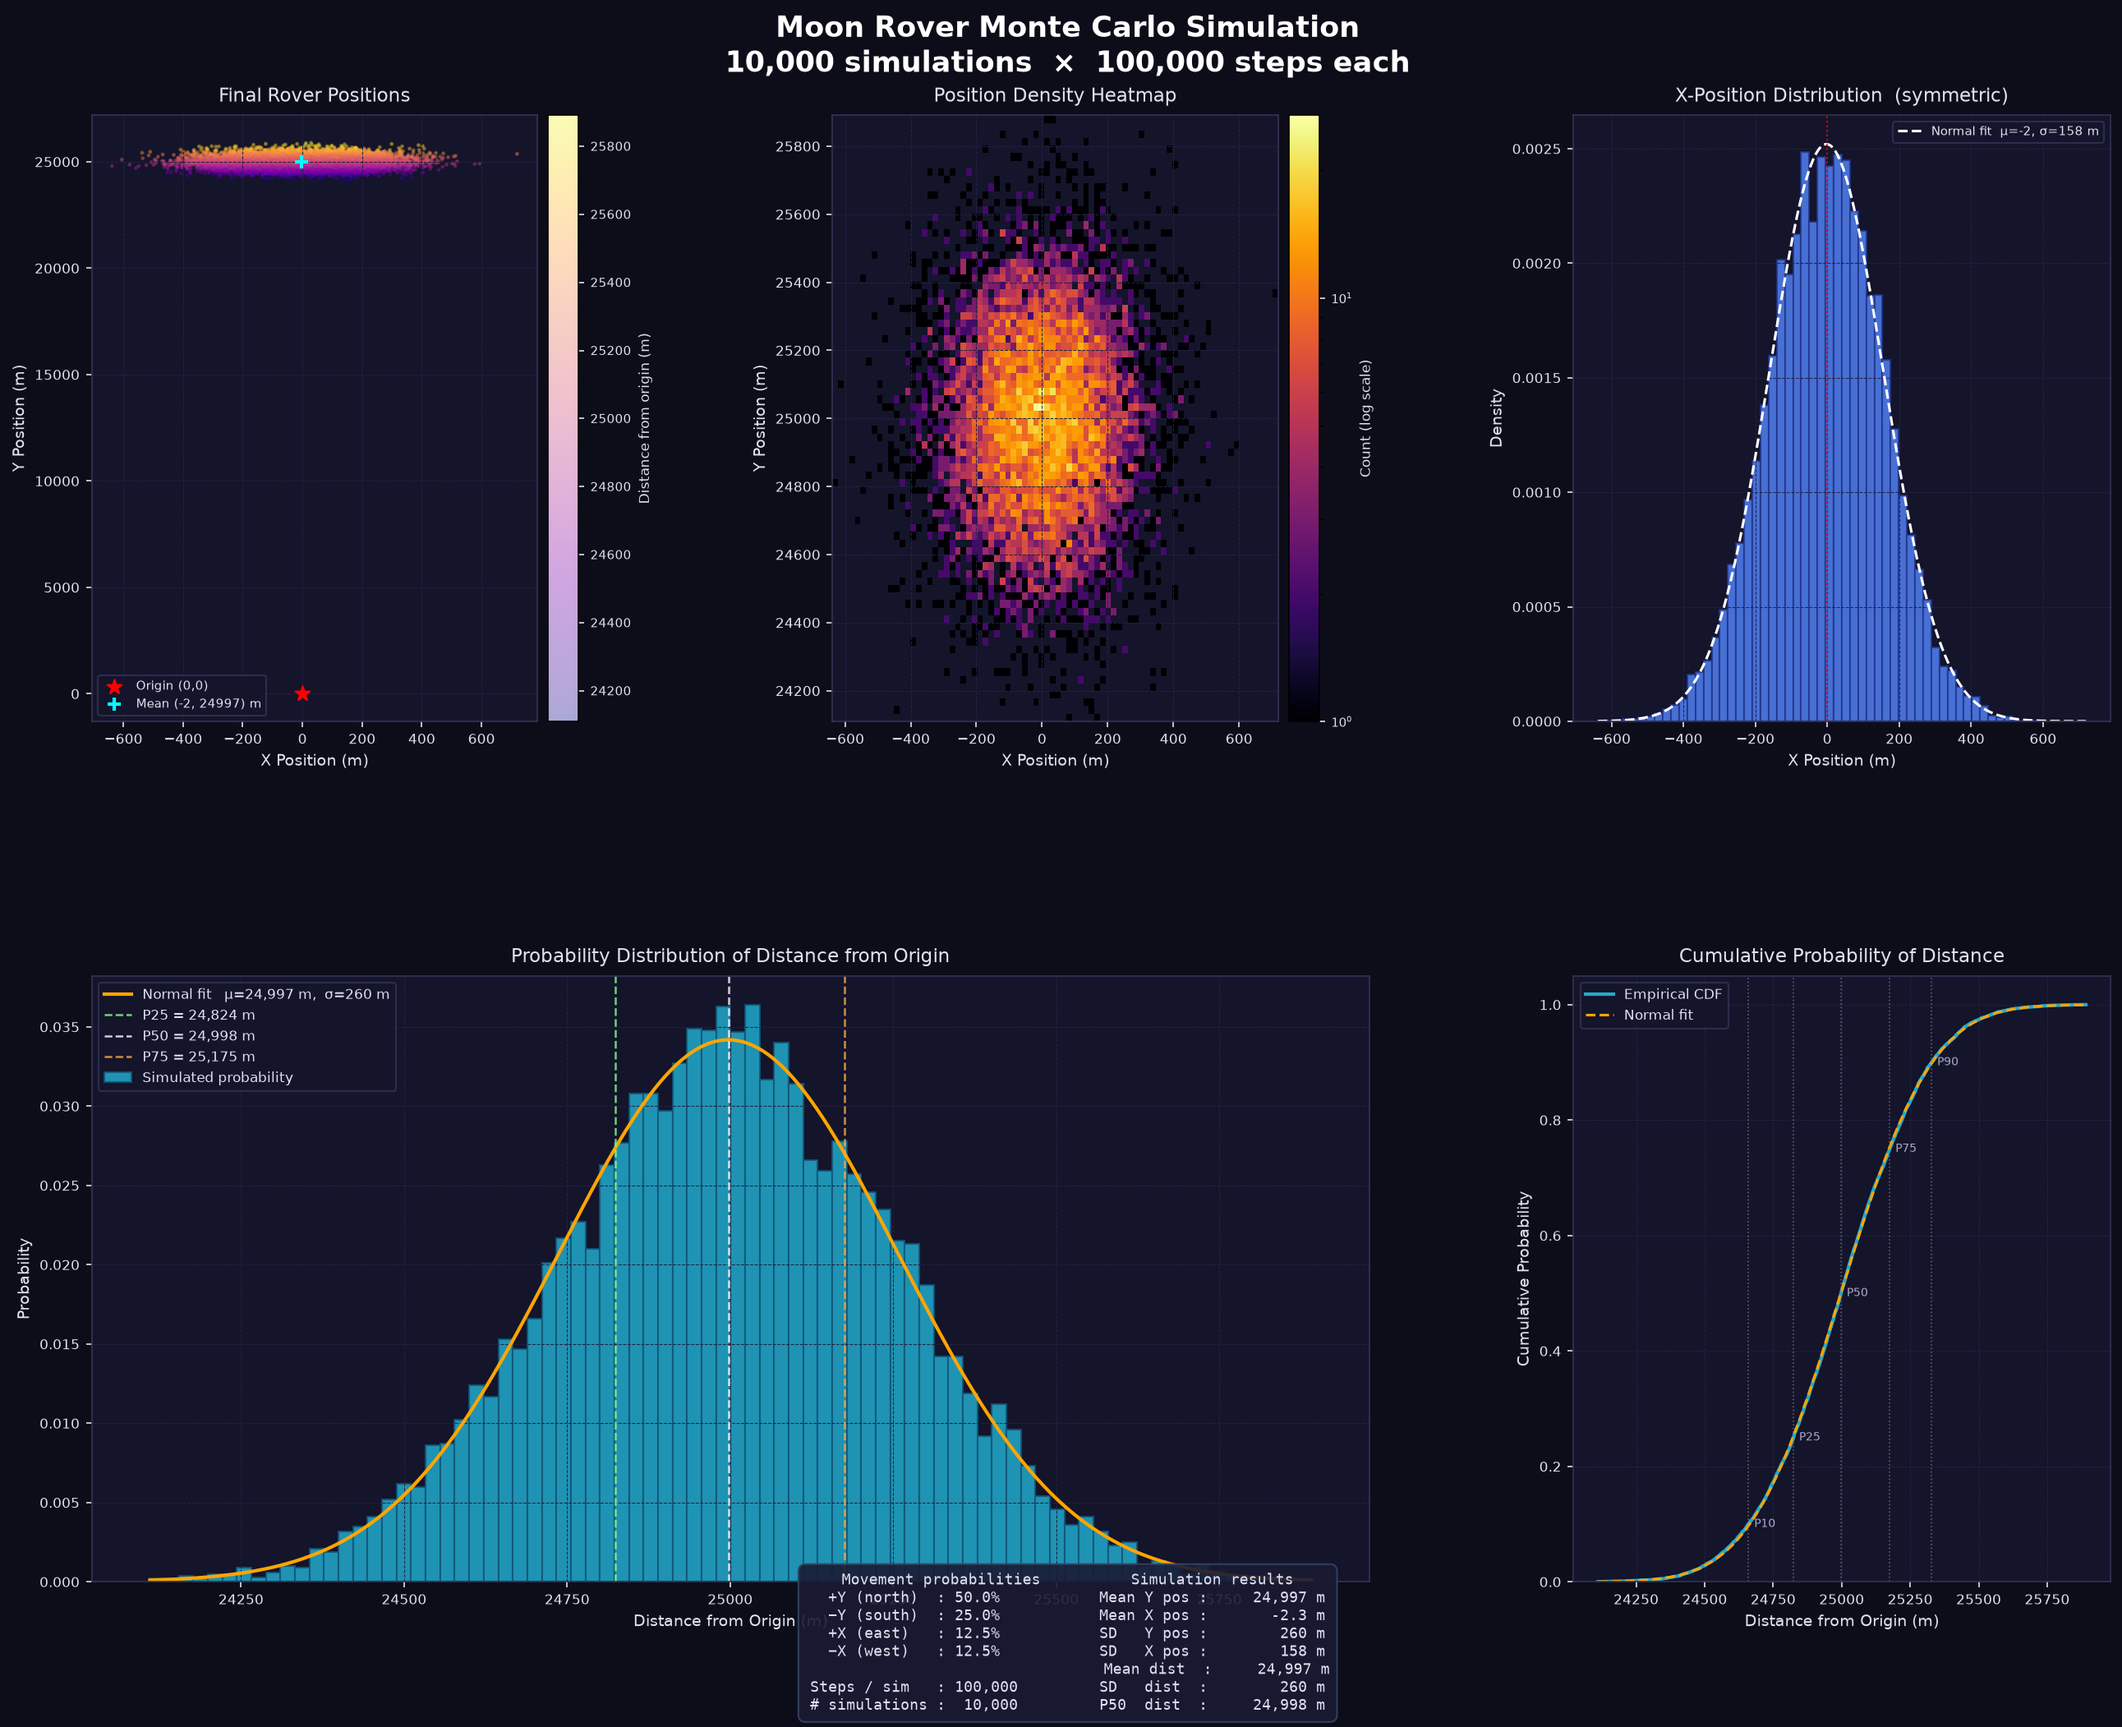
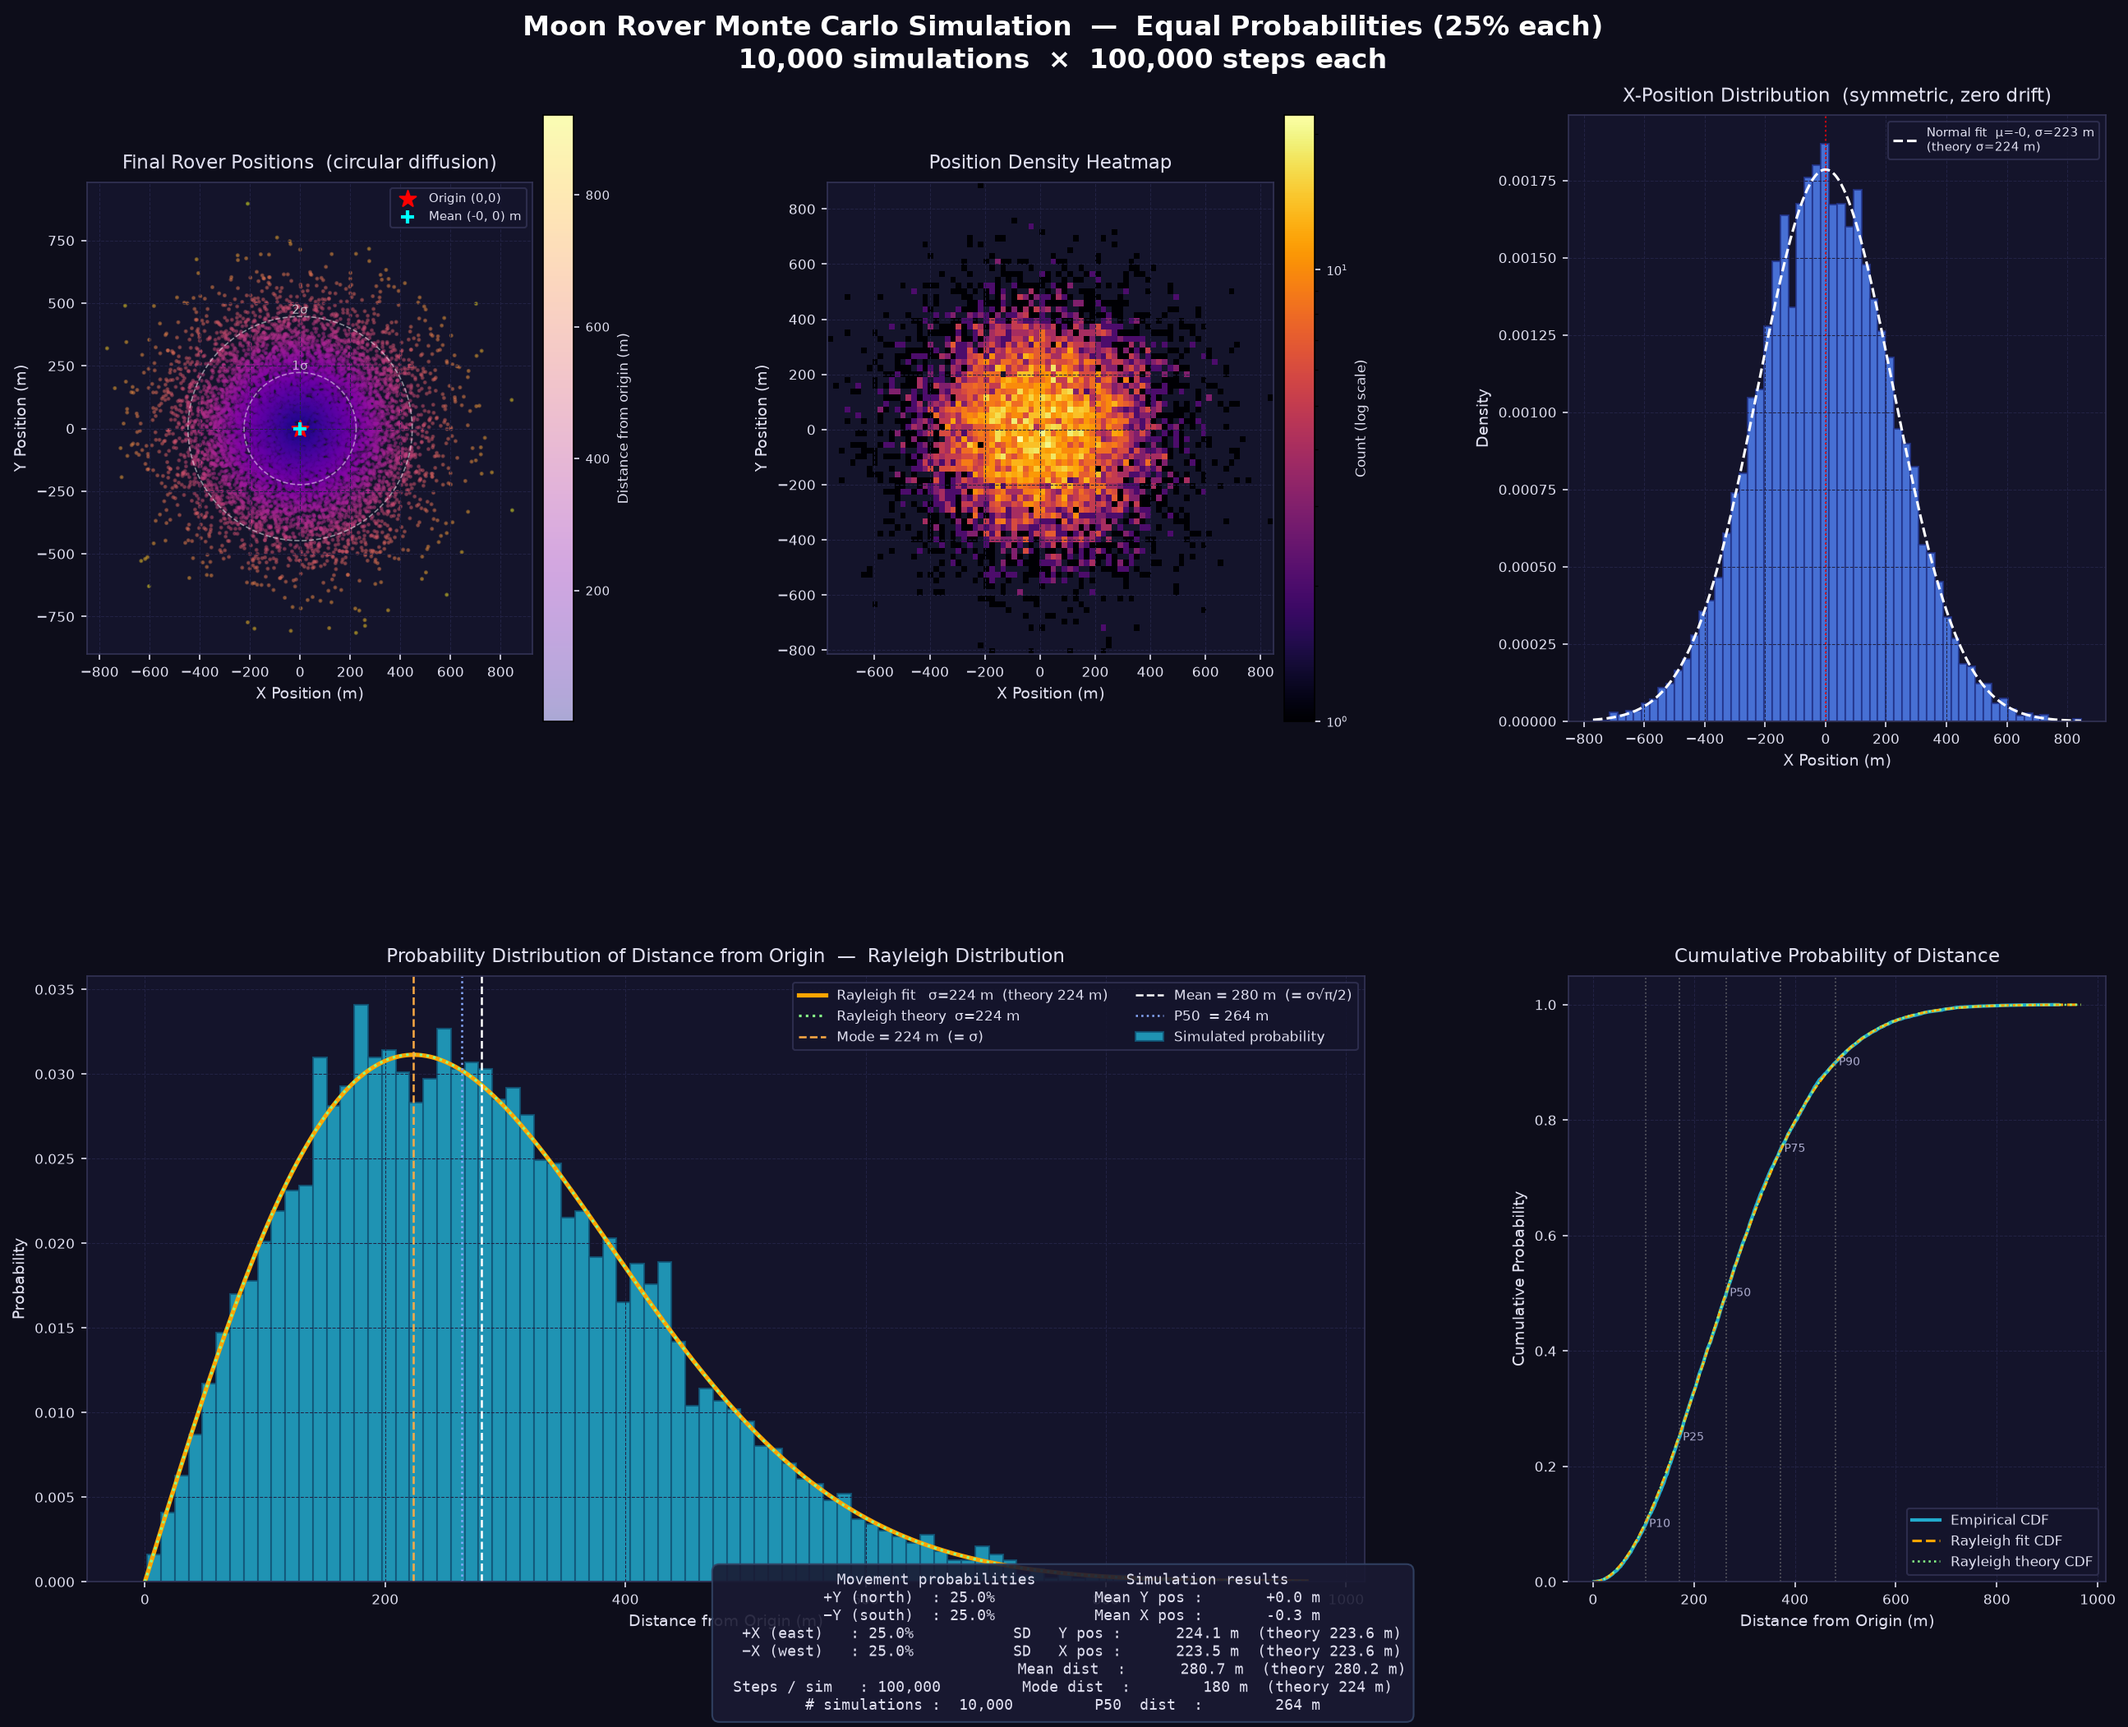
Update simulation to equal movement probabilities (25% each)
Removes the directional bias; rover now performs a symmetric 2-D
random walk. Updates distance distribution fit from Normal to Rayleigh,
adds 1σ/2σ reference circles on the scatter plot, and includes
theoretical Rayleigh curves alongside the fitted ones for comparison.

Claude-Session: https://claude.ai/code/session_018KwBvYQk7MAQ6HHa6mDAib

diff --git a/moon_rover_sim.py b/moon_rover_sim.py
@@ -2,10 +2,10 @@
 Moon Rover Monte Carlo Simulation
 ----------------------------------
 Movement rules (discrete 1-meter steps, one axis at a time):
-  +y : 50.0%
+  +y : 25.0%
   -y : 25.0%
-  +x : 12.5%
-  -x : 12.5%
+  +x : 25.0%
+  -x : 25.0%
 
 10,000 simulations × 100,000 steps each.
 """
@@ -38,14 +38,12 @@ def run_monte_carlo(n_sims: int = 10_000, n_steps: int = 100_000,
         # Random floats in [0, 1) — float32 halves memory vs float64
         r = rng.random((n, n_steps), dtype=np.float32)
 
-        # Thresholds: +y < 0.50 | -y < 0.75 | +x < 0.875 | -x else
-        # Y displacement per step
-        dy = np.where(r < 0.50, np.int8(1),
-             np.where(r < 0.75, np.int8(-1), np.int8(0)))
+        # Equal 25% thresholds: +y < 0.25 | -y < 0.50 | +x < 0.75 | -x else
+        dy = np.where(r < 0.25, np.int8(1),
+             np.where(r < 0.50, np.int8(-1), np.int8(0)))
 
-        # X displacement per step
-        dx = np.where(r >= 0.875, np.int8(-1),
-             np.where(r >= 0.750, np.int8(1),  np.int8(0)))
+        dx = np.where(r >= 0.75, np.int8(-1),
+             np.where(r >= 0.50, np.int8(1),  np.int8(0)))
 
         final_x[start:start + n] = dx.sum(axis=1)
         final_y[start:start + n] = dy.sum(axis=1)
@@ -60,12 +58,20 @@ def run_monte_carlo(n_sims: int = 10_000, n_steps: int = 100_000,
 
 
 print("=" * 60)
-print("  Moon Rover Monte Carlo Simulation")
+print("  Moon Rover Monte Carlo Simulation  (equal probabilities)")
 print("  10,000 sims × 100,000 steps")
 print("=" * 60)
 
 x_pos, y_pos = run_monte_carlo()
 distances = np.sqrt(x_pos**2 + y_pos**2)
+
+# ── Theoretical values (symmetric 2-D random walk) ────────────────────────────
+# Each axis: Var[step] = (0.25)(1²) + (0.25)(1²) = 0.5  →  SD = √(n × 0.5)
+sigma_axis  = np.sqrt(100_000 * 0.5)          # ~223.6 m per axis
+# Distance ~ Rayleigh(σ_axis): E[R] = σ√(π/2), Mode = σ
+rayleigh_sigma = sigma_axis
+theory_mean_d  = rayleigh_sigma * np.sqrt(np.pi / 2)
+theory_mode_d  = rayleigh_sigma
 
 # ── Statistics ─────────────────────────────────────────────────────────────────
 
@@ -74,22 +80,28 @@ mu_x,  sd_x  = x_pos.mean(),    x_pos.std()
 mu_y,  sd_y  = y_pos.mean(),    y_pos.std()
 pct = {p: np.percentile(distances, p) for p in [5, 10, 25, 50, 75, 90, 95]}
 
-print(f"\n  Expected Y drift  (theory): {0.25 * 100_000:,.0f} m")
-print(f"  Observed mean Y:            {mu_y:,.0f} m")
-print(f"  Observed mean X:            {mu_x:,.1f} m")
-print(f"\n  Distance from origin:")
-print(f"    Mean ± SD : {mu_d:,.0f} ± {sd_d:,.0f} m")
-print(f"    Min / Max : {distances.min():,.0f} / {distances.max():,.0f} m")
+print(f"\n  Expected mean Y / X (theory): 0 m")
+print(f"  Observed mean Y:              {mu_y:+.1f} m")
+print(f"  Observed mean X:              {mu_x:+.1f} m")
+print(f"\n  Per-axis SD (theory):  {sigma_axis:,.1f} m")
+print(f"  Observed SD Y:         {sd_y:,.1f} m")
+print(f"  Observed SD X:         {sd_x:,.1f} m")
+print(f"\n  Distance from origin  (Rayleigh theory):")
+print(f"    Theory mean : {theory_mean_d:,.1f} m")
+print(f"    Theory mode : {theory_mode_d:,.1f} m")
+print(f"    Obs. mean   : {mu_d:,.1f} m")
+print(f"    Obs. SD     : {sd_d:,.1f} m")
+print(f"    Min / Max   : {distances.min():,.0f} / {distances.max():,.0f} m")
 for p, v in pct.items():
-    print(f"    P{p:<3}      : {v:,.0f} m")
+    print(f"    P{p:<3}        : {v:,.0f} m")
 
 # ── Plotting ───────────────────────────────────────────────────────────────────
 
 fig = plt.figure(figsize=(18, 14), facecolor="#0d0d1a")
 fig.suptitle(
-    "Moon Rover Monte Carlo Simulation\n"
+    "Moon Rover Monte Carlo Simulation  —  Equal Probabilities (25% each)\n"
     "10,000 simulations  ×  100,000 steps each",
-    fontsize=17, fontweight="bold", color="white", y=0.99
+    fontsize=16, fontweight="bold", color="white", y=0.99
 )
 
 gs = GridSpec(2, 3, figure=fig, hspace=0.42, wspace=0.38,
@@ -119,11 +131,21 @@ cb1.ax.yaxis.set_tick_params(color=TEXT, labelsize=7)
 cb1.set_label("Distance from origin (m)", color=TEXT, fontsize=8)
 plt.setp(cb1.ax.yaxis.get_ticklabels(), color=TEXT)
 
-ax1.scatter(0, 0, c="red", s=80, marker="*", zorder=6, label="Origin (0,0)")
+# Draw reference circles at 1σ and 2σ
+theta = np.linspace(0, 2 * np.pi, 300)
+for mult, lbl in [(1, "1σ"), (2, "2σ")]:
+    r_circle = mult * sigma_axis
+    ax1.plot(r_circle * np.cos(theta), r_circle * np.sin(theta),
+             "w--", lw=0.8, alpha=0.5)
+    ax1.text(0, r_circle, lbl, color="white", fontsize=7,
+             ha="center", va="bottom", alpha=0.7)
+
+ax1.scatter(0, 0, c="red", s=100, marker="*", zorder=6, label="Origin (0,0)")
 ax1.scatter(mu_x, mu_y, c="cyan", s=60, marker="+", zorder=6,
             linewidths=2, label=f"Mean ({mu_x:.0f}, {mu_y:.0f}) m")
 ax1.legend(fontsize=7, facecolor=PANEL, labelcolor=TEXT, edgecolor="#333355")
-style_ax(ax1, "Final Rover Positions", "X Position (m)", "Y Position (m)")
+ax1.set_aspect("equal")
+style_ax(ax1, "Final Rover Positions  (circular diffusion)", "X Position (m)", "Y Position (m)")
 
 
 # ── 2. 2-D density heatmap ─────────────────────────────────────────────────────
@@ -136,25 +158,23 @@ cb2 = plt.colorbar(img, ax=ax2, pad=0.02)
 cb2.ax.yaxis.set_tick_params(color=TEXT, labelsize=7)
 cb2.set_label("Count (log scale)", color=TEXT, fontsize=8)
 plt.setp(cb2.ax.yaxis.get_ticklabels(), color=TEXT)
+ax2.set_aspect("equal")
 style_ax(ax2, "Position Density Heatmap", "X Position (m)", "Y Position (m)")
 
 
 # ── 3. X-position marginal ─────────────────────────────────────────────────────
 ax3 = fig.add_subplot(gs[0, 2])
-counts_x, edges_x, _ = ax3.hist(
-    x_pos, bins=60, color="#5588ff", edgecolor="#223388",
-    alpha=0.8, density=True
-)
+ax3.hist(x_pos, bins=60, color="#5588ff", edgecolor="#223388", alpha=0.8, density=True)
 mu_xf, sd_xf = stats.norm.fit(x_pos)
 xf = np.linspace(x_pos.min(), x_pos.max(), 400)
 ax3.plot(xf, stats.norm.pdf(xf, mu_xf, sd_xf), "w--", lw=1.5,
-         label=f"Normal fit  μ={mu_xf:.0f}, σ={sd_xf:.0f} m")
+         label=f"Normal fit  μ={mu_xf:.0f}, σ={sd_xf:.0f} m\n(theory σ={sigma_axis:.0f} m)")
 ax3.axvline(0, color="red", lw=1, linestyle=":", alpha=0.8)
 ax3.legend(fontsize=7, facecolor=PANEL, labelcolor=TEXT, edgecolor="#333355")
-style_ax(ax3, "X-Position Distribution  (symmetric)", "X Position (m)", "Density")
+style_ax(ax3, "X-Position Distribution  (symmetric, zero drift)", "X Position (m)", "Density")
 
 
-# ── 4. Distance probability histogram ─────────────────────────────────────────
+# ── 4. Distance probability histogram  +  Rayleigh fit ────────────────────────
 ax4 = fig.add_subplot(gs[1, 0:2])
 n_bins = 80
 counts_d, edges_d = np.histogram(distances, bins=n_bins)
@@ -162,26 +182,33 @@ centers_d = (edges_d[:-1] + edges_d[1:]) / 2
 width_d   = edges_d[1] - edges_d[0]
 probs_d   = counts_d / counts_d.sum()
 
-bars = ax4.bar(centers_d, probs_d, width=width_d,
-               color="#22aacc", edgecolor="#115577", alpha=0.85,
-               label="Simulated probability")
+ax4.bar(centers_d, probs_d, width=width_d,
+        color="#22aacc", edgecolor="#115577", alpha=0.85,
+        label="Simulated probability")
 
-# Normal fit overlay
-mu_df, sd_df = stats.norm.fit(distances)
-df = np.linspace(distances.min(), distances.max(), 600)
-pdf_df = stats.norm.pdf(df, mu_df, sd_df) * width_d
-ax4.plot(df, pdf_df, color="orange", lw=2,
-         label=f"Normal fit   μ={mu_df:,.0f} m,  σ={sd_df:,.0f} m")
+# Rayleigh fit (theoretical distribution for 2-D symmetric random walk)
+_, ray_scale = stats.rayleigh.fit(distances, floc=0)
+df = np.linspace(0, distances.max() * 1.05, 600)
+pdf_ray = stats.rayleigh.pdf(df, loc=0, scale=ray_scale) * width_d
+ax4.plot(df, pdf_ray, color="orange", lw=2.5,
+         label=f"Rayleigh fit   σ={ray_scale:,.0f} m  (theory {rayleigh_sigma:.0f} m)")
 
-# Percentile markers
-for p, v in {25: "#88ff88", 50: "white", 75: "#ffaa44"}.items():
-    ax4.axvline(pct[p], color=v, lw=1.2, linestyle="--", alpha=0.8,
-                label=f"P{p} = {pct[p]:,.0f} m")
+# Theory curve using exact σ
+pdf_theory = stats.rayleigh.pdf(df, loc=0, scale=rayleigh_sigma) * width_d
+ax4.plot(df, pdf_theory, color="#88ff88", lw=1.5, linestyle=":",
+         label=f"Rayleigh theory  σ={rayleigh_sigma:.0f} m")
+
+ax4.axvline(theory_mode_d, color="#ffaa44", lw=1.2, linestyle="--",
+            label=f"Mode = {theory_mode_d:.0f} m  (= σ)")
+ax4.axvline(theory_mean_d, color="white", lw=1.2, linestyle="--",
+            label=f"Mean = {theory_mean_d:.0f} m  (= σ√π/2)")
+ax4.axvline(pct[50], color="#88aaff", lw=1.2, linestyle=":",
+            label=f"P50  = {pct[50]:.0f} m")
 
 ax4.legend(fontsize=8, facecolor=PANEL, labelcolor=TEXT, edgecolor="#333355",
-           loc="upper left")
+           loc="upper right", ncol=2)
 style_ax(ax4,
-         "Probability Distribution of Distance from Origin",
+         "Probability Distribution of Distance from Origin  —  Rayleigh Distribution",
          "Distance from Origin (m)", "Probability")
 
 
@@ -191,13 +218,16 @@ sorted_d = np.sort(distances)
 cdf_emp  = np.linspace(1 / len(sorted_d), 1.0, len(sorted_d))
 ax5.plot(sorted_d, cdf_emp, color="#22aacc", lw=2, label="Empirical CDF")
 
-cdf_fit = stats.norm.cdf(df, mu_df, sd_df)
-ax5.plot(df, cdf_fit, "orange", lw=1.5, linestyle="--", label="Normal fit")
+cdf_ray = stats.rayleigh.cdf(df, loc=0, scale=ray_scale)
+ax5.plot(df, cdf_ray, "orange", lw=1.5, linestyle="--", label="Rayleigh fit CDF")
+
+cdf_theory = stats.rayleigh.cdf(df, loc=0, scale=rayleigh_sigma)
+ax5.plot(df, cdf_theory, "#88ff88", lw=1.2, linestyle=":", label="Rayleigh theory CDF")
 
 for p in [10, 25, 50, 75, 90]:
     v = pct[p]
     ax5.axvline(v, color="gray", lw=0.8, linestyle=":", alpha=0.7)
-    ax5.text(v + sd_df * 0.08, p / 100, f"P{p}", fontsize=6.5,
+    ax5.text(v + ray_scale * 0.03, p / 100, f"P{p}", fontsize=6.5,
              color="#aaaacc", va="center")
 
 ax5.set_ylim(0, 1.05)
@@ -209,12 +239,12 @@ style_ax(ax5, "Cumulative Probability of Distance",
 # ── Stats annotation ───────────────────────────────────────────────────────────
 stats_lines = (
     f"Movement probabilities          Simulation results\n"
-    f"  +Y (north)  : 50.0%           Mean Y pos : {mu_y:>10,.0f} m\n"
-    f"  −Y (south)  : 25.0%           Mean X pos : {mu_x:>10,.1f} m\n"
-    f"  +X (east)   : 12.5%           SD   Y pos : {sd_y:>10,.0f} m\n"
-    f"  −X (west)   : 12.5%           SD   X pos : {sd_x:>10,.0f} m\n"
-    f"                                 Mean dist  : {mu_d:>10,.0f} m\n"
-    f"Steps / sim   : 100,000         SD   dist  : {sd_d:>10,.0f} m\n"
+    f"  +Y (north)  : 25.0%           Mean Y pos : {mu_y:>+10.1f} m\n"
+    f"  −Y (south)  : 25.0%           Mean X pos : {mu_x:>+10.1f} m\n"
+    f"  +X (east)   : 25.0%           SD   Y pos : {sd_y:>10,.1f} m  (theory {sigma_axis:.1f} m)\n"
+    f"  −X (west)   : 25.0%           SD   X pos : {sd_x:>10,.1f} m  (theory {sigma_axis:.1f} m)\n"
+    f"                                 Mean dist  : {mu_d:>10,.1f} m  (theory {theory_mean_d:.1f} m)\n"
+    f"Steps / sim   : 100,000         Mode dist  : {centers_d[probs_d.argmax()]:>10,.0f} m  (theory {theory_mode_d:.0f} m)\n"
     f"# simulations :  10,000         P50  dist  : {pct[50]:>10,.0f} m"
 )
 fig.text(0.50, 0.003, stats_lines, fontsize=8.5, color=TEXT,
